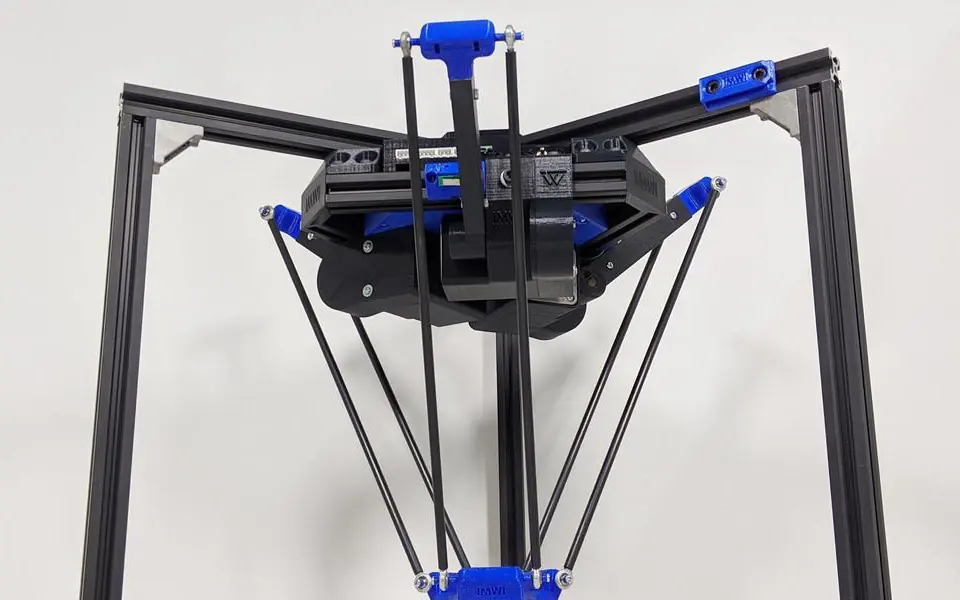
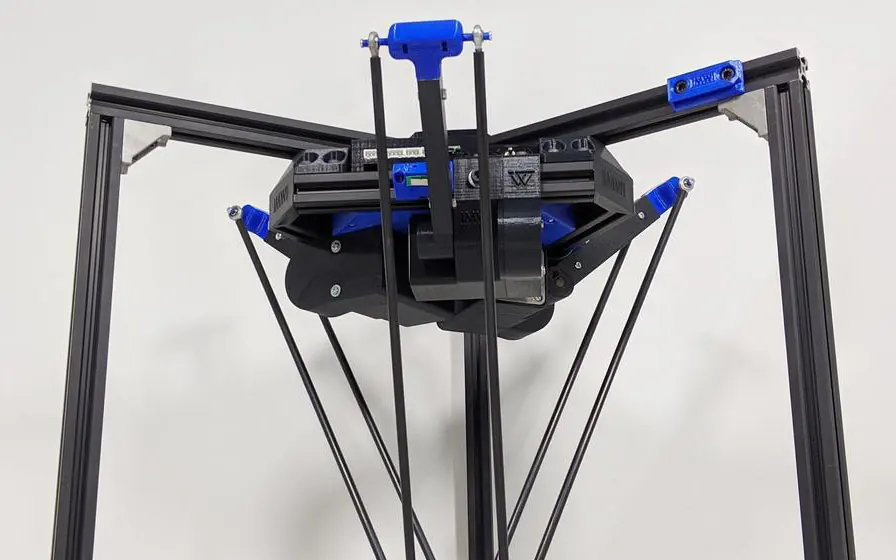
Rewrite the carbon fiber pultrusion hub as a routing page with photographs (#190)
The hub now opens with a carbon-roving hero and a "which form your load case
needs" section: three form cards with photographs and a seven-row load case
to form decision table that also routes torque and pressure cases to custom
profiles and insulation or cost cases to fiberglass. A "what the family gives
and what it takes" section carries the shared specific-stiffness figure, the
broken-pole photo and the class-value table. The plates, tubes and rods
anchors stay, each with a photograph; the process section adds carbonization,
tows and the FengDu KraussMaffei hall; fiber direction gets the shared figure;
six application photo cards route to the form or specialist page.

CollectionSchema gains an optional dateModified so the hub's header date and
JSON-LD agree. The delta-robot rod photo is re-cropped above its watermark.
No new photographs; the shared carbon library is reused. Gate test extended.

Changed region(s): [[0.0312, 0.0304, 0.9688, 1.0]]

diff --git a/app/products/pultrusion-carbon-fiber/page.tsx b/app/products/pultrusion-carbon-fiber/page.tsx
@@ -7,15 +7,17 @@ import PageSection from "@/components/layout/PageSection";
 import ProductRfq from "@/components/products/ProductRfq";
 import CollectionSchema from "@/components/seo/CollectionSchema";
 import Button from "@/components/ui/Button";
-import CoverCard from "@/components/ui/CoverCard";
 import Figure from "@/components/ui/Figure";
 import { FAQList } from "@/components/ui/FAQ";
 import { carbonProfileFormats, carbonProcessSteps, carbonRfqItems, carbonPultrusionFaqs, carbonPultrusionPath } from "@/content/data/carbonFiberPultrusion";
+import { carbonFigures, carbonProperties, carbonScenePhotos as scenes } from "@/content/data/carbonFiberScenes";
+import type { ScenePhoto } from "@/content/data/frpRebar";
 import { buildPageMetadata } from "@/lib/seo";
 import { buildRfqHref } from "@/lib/rfq";
 
 const title = "Pultrusion Carbon Fiber: Plates, Tubes & Rods";
 const description = "Explore carbon fiber pultrusion for plates, strips, tubes and rods. Compare profiles, applications and custom specifications with F1 Composite.";
+const updated = "2026-10-31";
 
 export const metadata: Metadata = buildPageMetadata({
   title, description, path: carbonPultrusionPath,
@@ -28,75 +30,148 @@ const quoteHref = buildRfqHref({
 });
 const linkStyle = "font-semibold text-teal-text underline underline-offset-4 hover:text-teal";
 
+/** The photograph and the one-line case for each profile form, keyed by the shared format id. */
+const formPhotos: Record<(typeof carbonProfileFormats)[number]["id"], { photo: ScenePhoto; when: string; typical: string }> = {
+  plates: { photo: scenes.plateEdge, when: "Reinforcement bonded to something stiffer than itself: spar caps, strengthening strips, bonded stiffeners. The flat face is for the adhesive.", typical: "10–200 mm wide, 1–12 mm thick, cut lengths or coils" },
+  tubes: { photo: scenes.hexacopter, when: "A member loaded in bending or axially on its own, where there is room for a larger diameter and a bore is useful: arms, booms, masts, struts.", typical: "Ø6–Ø150 mm, walls 1–5 mm, to 12 m" },
+  rods: { photo: scenes.deltaLinkages, when: "A compact axial member, a pin, a spar or a core: linkages, push rods, model spars, cores for flexible poles. The only carbon form below about Ø6 mm.", typical: "Ø1–Ø40 mm, any cut length" },
+};
+
+// The decision in one table: what the load case asks for, and which form answers it.
+const decision = [
+  { load: "Bend something that already exists: a beam, a slab, a panel", form: "Plate or strip, bonded flat", href: "/products/pultruded-carbon-fiber-plates", why: "The member supplies the depth; the strip supplies tension at the face." },
+  { load: "A straight member in bending on its own, lightest possible", form: "Tube", href: "/products/pultruded-carbon-fiber-tubes", why: "Material at the outside of the section; a Ø14 × Ø10 tube is 2.8 × stiffer than a Ø10 rod of the same mass." },
+  { load: "A member in pure tension or compression between two joints", form: "Rod", href: "/products/fiberglass-structural-shapes/frp-rod/carbon-fiber-rod", why: "All the stiffness in the one direction it is loaded; bonded fittings at each end." },
+  { load: "Small diameter, a pin, a spar, a clamp that must not crush a wall", form: "Rod", href: "/products/fiberglass-structural-shapes/frp-rod/carbon-fiber-rod", why: "Solid sections survive set screws and sockets; tubes under Ø6 mm are not practical." },
+  { load: "A spring or a flexible pole that must return without taking a set", form: "Strip, or a rod core", href: "/products/pultruded-carbon-fiber-plates", why: "A flat laminate bends far and stays elastic; a rod stiffens a hybrid pole." },
+  { load: "Torque, internal pressure, a hard clamp or side impact", form: "Not a plain pultrusion", href: "/products/custom-pultruded-profiles", why: "Add off-axis plies, a sleeve or a wrapped laminate; pultrusion alone puts every fiber along the axis." },
+  { load: "Electrical insulation, or the lowest cost", form: "Fiberglass instead", href: "/pultruded-frp-profiles", why: "Carbon conducts and costs several times glass; glass is the answer when stiffness per kilogram is not the point." },
+];
+
+// Three things carbon gives and three it takes, stated once for the family.
+const tradeoffs = {
+  gives: [
+    { title: "Stiffness per kilogram", text: "About 3.4 × aluminium or steel along the fibers, 7 × an E23 fiberglass profile. The reason every carbon part exists." },
+    { title: "Dimensional stability", text: "Near-zero thermal expansion along the fibers and no creep in the carbon: optics, metrology, long booms, bonded reinforcement." },
+    { title: "No fatigue allowance, no corrosion", text: "A carbon member under cyclic load keeps its stiffness without the oversizing aluminium needs, and nothing rusts, pits or stains." },
+  ],
+  takes: [
+    { title: "Everything points one way", text: "Pultrusion puts the fibers along the profile. Transverse, shear and interlaminar strengths are resin-dominated: holes, clamps, torque and side impact load the weak direction." },
+    { title: "No yield, no warning", text: "Linear to rupture at 1.2–1.8% strain. Design to a strain limit, protect from impact, and never accept a dent where metal would." },
+    { title: "Conductive and noble", text: "Carbon conducts and is cathodic to aluminium and steel. Wet joints need a glass ply, a sleeve or a sealed adhesive line; it is never an insulator." },
+  ],
+};
+
+const applications = [
+  { title: "Wind-blade spar caps", photo: scenes.bladeFactory, text: "Stacks of pultruded carbon planks bonded in the mould carry the bending load of blades beyond 60 m.", href: "/products/wind-turbine-blade-panels" },
+  { title: "Strengthening concrete and masonry", photo: scenes.strengthening, text: "Strips bonded to the tension face add capacity to slabs, beams and walls without depth or weight.", href: "/products/pultruded-cfrp-strengthening-strips" },
+  { title: "Drones, arms and booms", photo: scenes.fpvQuad, text: "Tubes and plates where every gram of moving mass costs flight time, cycle time or reach.", href: "/products/pultruded-carbon-fiber-tubes" },
+  { title: "Parallel robots and linkages", photo: scenes.deltaConveyor, text: "Slender rods and tubes accelerated at several g, thousands of times an hour.", href: "/products/carbon-fiber-robotic-beams" },
+  { title: "Optics, metrology and instruments", photo: scenes.telescope, text: "Tubes and frames that hold alignment through a temperature swing and damp vibration fast.", href: "/products/pultruded-carbon-fiber-tubes" },
+  { title: "Lightweight frames and chassis", photo: scenes.heliFrame, text: "Straight carbon members bonded into nodes: vehicles, equipment enclosures, rigs.", href: "/products/carbon-fiber-roller-tubes" },
+];
+
+/** A schematic plate at the 8:5 ratio the drawn figures are made in. */
+function Plate({ src, alt }: { src: string; alt: string }) {
+  return <div className="relative aspect-[8/5] bg-white"><Image src={src} alt={alt} fill sizes="(max-width: 1024px) 94vw, 50vw" className="object-contain" /></div>;
+}
+
+/** An openly licensed photograph that fills its plate; the credit is listed at the end of the page. */
+function Photo({ photo, sizes = "(max-width: 1024px) 94vw, 33vw", preload = false }: { photo: ScenePhoto; sizes?: string; preload?: boolean }) {
+  return <div className="relative aspect-[8/5] bg-bg2"><Image src={photo.src} alt={photo.alt} fill sizes={sizes} preload={preload} className="object-cover" /></div>;
+}
+
+const creditedPhotos: ScenePhoto[] = [scenes.roving, ...carbonProfileFormats.map(format => formPhotos[format.id].photo), scenes.brokenPole, scenes.carbonization, scenes.tows, ...applications.map(item => item.photo)].filter((photo, i, all) => all.findIndex(other => other.src === photo.src) === i);
+
 export default function CarbonFiberPultrusionPage() {
   return (
     <>
-      <CollectionSchema name={title} description={description} path={carbonPultrusionPath} links={carbonProfileFormats.map((format) => ({ label: format.name, href: format.href }))} />
+      <CollectionSchema {...{ name: title, description, path: carbonPultrusionPath, dateModified: updated, links: carbonProfileFormats.map((format) => ({ label: format.name, href: format.href })) }} />
       <PageHeader
         tag="Carbon fiber pultrusion"
-        title="Pultrusion carbon fiber: plates, tubes & rods"
-        description="Continuous carbon fibers. A constant cross-section. A profile built around your load path. Explore pultruded CFRP plates, strips, tubes and solid rods for lightweight, stiffness-driven components."
+        title="Pultrusion carbon fiber: plates, tubes and rods, and which one your load case needs"
+        description="Carbon fiber pultrusion pulls continuous carbon tow through a heated die into a constant section with every fiber along its length: the stiffest material per kilogram that can be made by the metre. F1 Composite pultrudes it as flat plates and strips, hollow tubes and solid rods. This page says what the family does, what it will not do, and which of the three forms answers your load case; each form has its own page with sizes, figures and applications."
+        updated={updated}
         breadcrumbs={[{ label: "Home", href: "/" }, { label: "Products", href: "/products/product-lines" }, { label: "Carbon fiber pultrusion" }]}
-        facts={[{ label: "Material", value: "Carbon fiber / CFRP" }, { label: "Formats", value: "Plates · tubes · rods" }, { label: "Geometry", value: "Constant section" }, { label: "Supply", value: "Drawing-led review" }]}
-        actions={{ primary: { label: "Request a carbon profile quote", href: quoteHref }, secondary: { label: "Explore the profiles", href: "#profiles", variant: "secondary" }, stickyMobile: true }}
-        figure={<Figure number={1} title="One process, different profiles" note="Profile illustration" bleed caption="Flat laminates, hollow tubes and solid rods. Illustrations show profile forms, not stock sizes."><Image src="/images/products/pultrusion-carbon-fiber/profile-family.svg" alt="Illustrated family of pultruded carbon fiber plates, hollow tubes and solid rods" width={1200} height={900} preload sizes="(max-width: 1023px) 94vw, 44vw" className="h-auto w-full" /></Figure>}
+        facts={[{ label: "Stiffness per kg", value: "≈ 3.4 × aluminium or steel" }, { label: "Forms", value: "Plates · tubes · rods" }, { label: "Fibers", value: "All along the profile" }, { label: "Supply", value: "To drawing, any cut length" }]}
+        actions={{ primary: { label: "Request a carbon profile quote", href: quoteHref }, secondary: { label: "Which form do I need?", href: "#profiles", variant: "secondary" }, stickyMobile: true }}
+        figure={<Figure number={1} title="Where every carbon profile starts" note="Photo · see credits" bleed caption={scenes.roving.shows}><Photo photo={scenes.roving} sizes="(max-width: 1023px) 94vw, 44vw" preload /></Figure>}
       />
-      <PageNav items={[{ id: "profiles", label: "Profiles" }, { id: "process", label: "Process" }, { id: "selection", label: "Material selection" }, { id: "applications", label: "Applications" }, { id: "faq", label: "FAQ" }, { id: "quote", label: "Quote" }]} />
+      <PageNav items={[{ id: "profiles", label: "Which form" }, { id: "performance", label: "Why carbon" }, { id: "plates", label: "Plates" }, { id: "tubes", label: "Tubes" }, { id: "rods", label: "Rods" }, { id: "process", label: "Process" }, { id: "selection", label: "Fiber direction" }, { id: "applications", label: "Applications" }, { id: "faq", label: "FAQ" }, { id: "quote", label: "Quote" }]} />
 
-      <PageSection id="profiles" title="Choose your pultruded carbon fiber profile" intro="Carbon fiber pultrusion combines continuous reinforcement with a resin matrix in a heated die. The process suits long, straight profiles with a consistent cross-section; the main reinforcement typically runs along their length.">
+      <PageSection id="profiles" title="Three forms, one laminate: which one your load case needs" intro="All three are the same unidirectional carbon laminate; the section decides what it is good for. Start from the load, not the shape.">
         <div className="grid gap-[20px] md:grid-cols-3">
-          {carbonProfileFormats.map((format) => <CoverCard key={format.id} href={format.href} cover={{ src: format.image, alt: format.alt, note: "Profile illustration", fit: "contain" }} title={format.name} text={format.summary} facts={[format.geometry]} action={`Explore ${format.shortName.toLowerCase()}`} />)}
+          {carbonProfileFormats.map((format) => { const { photo, when, typical } = formPhotos[format.id]; return <article key={format.id} className="flex flex-col overflow-hidden rounded-card border border-border-default bg-white"><Photo photo={photo} /><div className="flex flex-1 flex-col p-[20px]"><p className="text-f12 leading-relaxed text-t3">{photo.shows}</p><h3 className="mt-[12px] text-f20 font-bold text-t1">{format.shortName}</h3><p className="mt-[8px] text-f14 leading-relaxed text-t2">{when}</p><p className="mt-[12px] text-f12 leading-relaxed text-t3"><strong className="text-t1">Typical:</strong> {typical}</p><Link href={format.href} className={`mt-auto inline-flex min-h-10 items-center pt-[12px] text-f14 ${linkStyle}`}>{format.name} →</Link></div></article>; })}
         </div>
+        <div className="mt-[24px] overflow-hidden rounded-card border border-border-default bg-white"><div className="relative overflow-x-auto"><table className="w-full min-w-[760px] border-collapse text-left text-f14"><caption className="border-b border-border-default px-[20px] py-[16px] text-left font-semibold text-t1">From the load case to the form</caption><thead className="bg-bg2"><tr><th scope="col" className="px-[16px] py-[12px]">Your load case</th><th scope="col" className="px-[16px] py-[12px]">The form</th><th scope="col" className="px-[16px] py-[12px]">Why</th></tr></thead><tbody>{decision.map(row => <tr key={row.load} className="border-t border-border-default align-top"><th scope="row" className="px-[16px] py-[12px] font-semibold text-t1">{row.load}</th><td className="px-[16px] py-[12px] leading-relaxed"><Link href={row.href} className={linkStyle}>{row.form}</Link></td><td className="px-[16px] py-[12px] leading-relaxed text-t2">{row.why}</td></tr>)}</tbody></table></div></div>
         <p className="mt-[20px] text-f16 leading-relaxed text-t2">Need a different section? <Link href="/products/custom-pultruded-profiles" className={linkStyle}>Discuss a custom carbon fiber profile</Link> with the drawing, material requirements and annual volume.</p>
       </PageSection>
 
-      {carbonProfileFormats.map((format, index) => (
-        <PageSection key={format.id} id={format.id} title={format.name} tone={index % 2 === 0 ? "muted" : "white"}>
+      <PageSection id="performance" title="What the family gives, and what it takes" tone="muted" intro="Carbon is bought for one number, stiffness per kilogram along the fibers, and everything else follows from where the fibers point. The figure and the table below are shared by the three product pages; the class values are published ranges, and the qualification report of the offered laminate is the design basis.">
+        <div className="grid items-start gap-[24px] lg:grid-cols-[1.2fr_1fr]">
+          <Figure number={2} title="Stiffness per unit mass, along the fibers" caption="Unidirectional pultruded carbon against aluminium, steel and E23 fiberglass. Same mass per metre, about 3.4 times the stiffness of the metals." bleed><Plate src={carbonFigures.specificStiffness.src} alt={carbonFigures.specificStiffness.alt} /></Figure>
+          <Figure number={3} title="No yield, no warning" note="Photo · see credits" caption={scenes.brokenPole.shows} bleed><Photo photo={scenes.brokenPole} sizes="(max-width: 1024px) 94vw, 40vw" /></Figure>
+        </div>
+        <div className="mt-[24px] grid gap-[20px] lg:grid-cols-2">
+          <div className="rounded-card border border-border-default bg-white p-[20px]"><p className="font-mono text-f12 uppercase tracking-[0.06em] text-teal-text">What carbon gives</p><div className="mt-[8px] grid gap-[12px]">{tradeoffs.gives.map(item => <div key={item.title} className="border-t border-border-default pt-[10px]"><h3 className="text-f16 font-bold text-t1">{item.title}</h3><p className="mt-[4px] text-f14 leading-relaxed text-t2">{item.text}</p></div>)}</div></div>
+          <div className="rounded-card border border-border-default bg-white p-[20px]"><p className="font-mono text-f12 uppercase tracking-[0.06em] text-t3">What it takes</p><div className="mt-[8px] grid gap-[12px]">{tradeoffs.takes.map(item => <div key={item.title} className="border-t border-border-default pt-[10px]"><h3 className="text-f16 font-bold text-t1">{item.title}</h3><p className="mt-[4px] text-f14 leading-relaxed text-t2">{item.text}</p></div>)}</div></div>
+        </div>
+        <div className="mt-[24px] overflow-hidden rounded-card border border-border-default bg-white"><div className="relative overflow-x-auto"><table className="w-full min-w-[900px] border-collapse text-left text-f14"><caption className="border-b border-border-default px-[20px] py-[16px] text-left font-semibold text-t1">Unidirectional pultruded carbon against the materials it replaces, property by property</caption><thead className="bg-bg2"><tr><th scope="col" className="px-[16px] py-[12px]">Property</th><th scope="col" className="px-[16px] py-[12px] text-teal-text">Pultruded CFRP</th><th scope="col" className="px-[16px] py-[12px]">Pultruded GFRP (E23)</th><th scope="col" className="px-[16px] py-[12px]">Aluminium 6061-T6</th><th scope="col" className="px-[16px] py-[12px]">Structural steel</th><th scope="col" className="px-[16px] py-[12px]">What it means</th></tr></thead><tbody>{carbonProperties.map(row => <tr key={row.property} className="border-t border-border-default align-top"><th scope="row" className="px-[16px] py-[12px] font-semibold text-t1">{row.property}</th><td className="px-[16px] py-[12px] leading-relaxed text-t1">{row.cfrp}</td><td className="px-[16px] py-[12px] leading-relaxed text-t2">{row.gfrp}</td><td className="px-[16px] py-[12px] leading-relaxed text-t2">{row.aluminium}</td><td className="px-[16px] py-[12px] leading-relaxed text-t2">{row.steel}</td><td className="px-[16px] py-[12px] leading-relaxed text-t3">{row.note}</td></tr>)}</tbody></table></div><p className="border-t border-border-default p-[20px] text-f12 leading-relaxed text-t3">CFRP values are published class ranges for standard-modulus carbon at about 60% fiber volume (ACI 440.1R Table 3.1 and supplier datasheets); fiberglass is the EN 13706 E23 minimum F1 publishes for its glass profiles; metals are handbook values. None is a guarantee for a particular profile: the qualification report of the offered laminate, in the test direction that matters, is the number to design with.</p></div>
+      </PageSection>
+
+      {carbonProfileFormats.map((format, index) => { const { photo, typical } = formPhotos[format.id]; return (
+        <PageSection key={format.id} id={format.id} title={format.name} tone={index % 2 === 0 ? "white" : "muted"}>
           <div className="grid items-start gap-[28px] lg:grid-cols-2 lg:gap-[48px]">
-            <Figure number={index + 2} title={format.shortName} note="Profile illustration" bleed caption={format.geometry}><Image src={format.image} alt={format.alt} width={900} height={600} sizes="(max-width: 1023px) 94vw, 44vw" className="h-auto w-full" /></Figure>
+            <Figure number={index + 4} title={format.shortName} note="Photo · see credits" bleed caption={photo.shows}><Photo photo={photo} sizes="(max-width: 1023px) 94vw, 44vw" /></Figure>
             <div className="space-y-[18px] text-f16 leading-relaxed text-t2">
               <p>{format.detail}</p>
+              <p className="text-f14 text-t3"><strong className="text-t1">Geometry:</strong> {format.geometry} · <strong className="text-t1">Typical:</strong> {typical}</p>
               <div className="rounded-card border border-border-default bg-white p-[20px]"><h3 className="text-f18 font-bold text-t1">What to specify</h3><p className="mt-[8px]">{format.checks}</p></div>
               <ul className="space-y-[10px]">{format.links.map((link) => <li key={link.href}><Link href={link.href} className={linkStyle}>{link.label} <span aria-hidden>→</span></Link></li>)}</ul>
-              <Button href={buildRfqHref({ source: `carbon-pultrusion-${format.id}`, product: format.name, productPath: `${carbonPultrusionPath}#${format.id}`, message: `Please review ${format.name.toLowerCase()} for my project.\n${format.geometry} (with units and tolerances):\nQuantity:\nApplication, loads and connections:\nMaterial and inspection requirements:\nDestination and delivery date:` })}>Request {format.shortName.toLowerCase()}</Button>
+              <Button href={buildRfqHref({ source: `carbon-pultrusion-${format.id}`, product: format.name, productPath: `${carbonPultrusionPath}#${format.id}`, message: `Please review ${format.name.toLowerCase()} for my project.\n${format.geometry} (with units and tolerances):\nQuantity:\nApplication, loads and connections:\nMaterial, service conditions and test requirements:\nDestination and delivery date:` })}>Quote {format.shortName.toLowerCase()}</Button>
             </div>
           </div>
         </PageSection>
-      ))}
+      ); })}
 
-      <PageSection id="process" title="How carbon fiber pultrusion works" intro="The profile is pulled through the line continuously. Fiber alignment, resin wet-out and cure control work together to establish the finished laminate.">
-        <Figure number={5} title="From carbon tow to finished profile" note="Process schematic" bleed><Image src="/images/products/pultrusion-carbon-fiber/process.svg" alt="Carbon fiber pultrusion sequence: tow alignment, resin impregnation, heated die, puller and cut to length" width={1400} height={500} sizes="94vw" className="h-auto w-full" /></Figure>
-        <ol className="mt-[24px] grid gap-[16px] sm:grid-cols-2 lg:grid-cols-5">{carbonProcessSteps.map((step, i) => <li key={step.title} className="border-t-2 border-teal pt-[16px]"><span className="font-mono text-f12 text-teal-text">0{i + 1}</span><h3 className="mt-[6px] text-f18 font-bold text-t1">{step.title}</h3><p className="mt-[8px] text-f14 leading-relaxed text-t2">{step.text}</p></li>)}</ol>
+      <PageSection id="process" title="How carbon fiber pultrusion works" tone="muted" intro="The fiber is made long before the profile. Precursor is oxidised and carbonised into tow; the tow is wound on bobbins; a pultrusion line pulls hundreds of those tows through a resin bath and a heated die, continuously, and cuts the cured profile to length.">
+        <div className="grid gap-[20px] md:grid-cols-3">
+          <Figure number={7} title="Making the fiber" note="Photo · see credits" caption={scenes.carbonization.shows} bleed><Photo photo={scenes.carbonization} /></Figure>
+          <Figure number={8} title="Feeding the line" note="Photo · see credits" caption={scenes.tows.shows} bleed><Photo photo={scenes.tows} /></Figure>
+          <Figure number={9} title="The pultrusion hall" note="Production photo" caption="KraussMaffei pultrusion lines, pullers and take-off tables in a FengDu hall. Glass profiles run on these lines; a carbon profile is pulled the same way, with a die and a resin system matched to the tow." bleed><div className="relative aspect-[8/5] bg-bg2"><Image src="/images/f1-photos/f1-composite-pultrusion-hall-krauss-maffei-rows.webp" alt="Rows of KraussMaffei pultrusion lines with pullers and profile take-off tables in a FengDu production hall" fill sizes="(max-width: 1024px) 94vw, 33vw" className="object-cover" /></div></Figure>
+        </div>
+        <Figure number={10} title="From carbon tow to finished profile" note="Process schematic" bleed className="mt-[24px]"><Image src="/images/products/pultrusion-carbon-fiber/process.svg" alt="Carbon fiber pultrusion sequence: tow alignment, resin impregnation, heated die, puller and cut to length" width={1400} height={500} sizes="94vw" className="h-auto w-full" /></Figure>
+        <ol className="mt-[24px] grid gap-[16px] sm:grid-cols-2 lg:grid-cols-5">{carbonProcessSteps.map((step, i) => <li key={step.title} className="border-t-2 border-teal pt-[16px]"><span className="font-mono text-f12 text-teal-text">0{i + 1}</span><h3 className="mt-[6px] text-f18 font-bold text-t1">{step.title}</h3><p className="mt-[6px] text-f14 leading-relaxed text-t2">{step.text}</p></li>)}</ol>
         <p className="mt-[24px] text-f16"><Link href="/technology/pultrusion-process" className={linkStyle}>Explore the pultrusion process</Link>{" · "}<Link href="/technology/pultrusion-vs-extrusion-filament-winding" className={linkStyle}>Compare manufacturing methods</Link></p>
       </PageSection>
 
-      <PageSection id="selection" title="Choose the fiber architecture for the job" tone="muted" intro="Longitudinal stiffness is only part of the specification. Review the direction of every load and how it enters the component.">
-        <div className="grid gap-[20px] md:grid-cols-3">
-          {[
-            { title: "Axial and bending loads", text: "Mainly longitudinal carbon fibers can support stiffness-driven designs with low moving mass. Finished-part properties still depend on the fiber grade, resin, fiber content and section geometry." },
-            { title: "Torque and transverse loads", text: "A mainly unidirectional profile needs separate checks for shear, hoop loading and local bearing. Off-axis reinforcement, pull-winding or a wrapped laminate may better suit these loads." },
-            { title: "Connections and exposure", text: "Specify bonded joints, inserts and clamps early. Carbon is electrically conductive; review electrical isolation and metal interfaces in wet service, together with resin, temperature and UV requirements." },
-          ].map((item) => <article key={item.title} className="rounded-card border border-border-default bg-white p-[24px]"><h3 className="text-f20 font-bold text-t1">{item.title}</h3><p className="mt-[12px] text-f16 leading-relaxed text-t2">{item.text}</p></article>)}
-        </div>
-        <p className="mt-[24px] text-f16 leading-relaxed text-t2">Comparing carbon with glass fiber? Review <Link href="/pultruded-frp-profiles" className={linkStyle}>pultruded fiberglass profiles</Link> when cost or electrical insulation drives the design. Compare actual laminate data and the complete assembly against the same service requirements.</p>
-      </PageSection>
-
-      <PageSection id="applications" title="From flat reinforcement to moving components" intro="Follow the application to its section, interfaces and qualification requirements.">
-        <div className="grid items-start gap-[28px] lg:grid-cols-2 lg:gap-[48px]">
-          <Figure number={6} title="Carbon fiber wind-blade laminates" note="Representative supplier image" bleed caption="Existing carbon panel imagery from the F1 wind-blade range. Grade and project qualification are specified separately."><Image src="/images/products/wind-turbine-blade-panels/pultruded-carbon-fiber-wind-blade-panel.webp" alt="Straight and coiled pultruded carbon fiber panels for wind turbine blade programs" width={605} height={209} sizes="(max-width: 1023px) 94vw, 44vw" className="h-auto w-full" /></Figure>
+      <PageSection id="selection" title="Fiber direction: what pultrusion is good at, and when to wrap instead" intro="The process fixes the laminate. Pultrusion puts the fibers along the profile, which is right for axial load and bending and wrong for torque, pressure or a hard clamp. Knowing which case you have is most of the specification.">
+        <div className="grid items-start gap-[24px] lg:grid-cols-[1.3fr_1fr]">
+          <Figure number={11} title="Pultruded against roll-wrapped" caption="A 0° laminate carries axial load, bending and buckling at the highest modulus per kilogram; ±45° and 90° plies add torsion and hoop capacity at a higher price. A pultruded profile can be sleeved, wrapped or bonded at the ends so the 0° laminate works in the span and the joint carries the rest." bleed><Plate src={carbonFigures.fiberDirection.src} alt={carbonFigures.fiberDirection.alt} /></Figure>
           <div className="grid gap-[16px]">
             {[
-              { title: "Wind-blade spar caps", text: "Specify the laminate, bonding surface and fatigue qualification as a single material program.", href: "/products/wind-turbine-blade-panels" },
-              { title: "Bonded strengthening strips", text: "Review the strip together with the adhesive, substrate and load transfer at its ends.", href: "/products/pultruded-cfrp-strengthening-strips" },
-              { title: "Robotic beams and struts", text: "Balance moving mass and stiffness with joint loads and the working cycle.", href: "/products/carbon-fiber-robotic-beams" },
-              { title: "Industrial roller tubes", text: "Define runout, end fittings and operating speed; the laminate and manufacturing route follow the duty.", href: "/products/carbon-fiber-roller-tubes" },
-            ].map((item) => <Link key={item.href} href={item.href} className="rounded-card border border-border-default p-[20px] transition-colors hover:border-teal-border"><h3 className="text-f18 font-bold text-teal-text">{item.title} <span aria-hidden>→</span></h3><p className="mt-[6px] text-f14 leading-relaxed text-t2">{item.text}</p></Link>)}
+              { title: "Axial and bending loads", text: "Mainly longitudinal carbon fibers suit stiffness-driven designs with low moving mass. Finished-part properties still depend on the fiber grade, resin, fiber content and section geometry." },
+              { title: "Torque and transverse loads", text: "A unidirectional profile needs separate checks for shear, hoop loading and local bearing. Off-axis reinforcement, pull-winding or a wrapped laminate may better suit these loads." },
+              { title: "Connections and exposure", text: "Specify bonded joints, inserts and clamps early. Carbon is electrically conductive; review electrical isolation and metal interfaces in wet service, together with resin, temperature and UV requirements." },
+            ].map((item) => <article key={item.title} className="rounded-card border border-border-default bg-bg2 p-[20px]"><h3 className="text-f16 font-bold text-t1">{item.title}</h3><p className="mt-[8px] text-f14 leading-relaxed text-t2">{item.text}</p></article>)}
           </div>
         </div>
+        <p className="mt-[24px] text-f16 leading-relaxed text-t2">Comparing carbon with glass fiber? Review <Link href="/pultruded-frp-profiles" className={linkStyle}>pultruded fiberglass profiles</Link> when cost or electrical insulation drives the design. Compare actual laminate data and the complete assembly against the same load case.</p>
       </PageSection>
 
-      <PageSection id="faq" title="Carbon fiber pultrusion: common questions" tone="muted"><FAQList items={carbonPultrusionFaqs} /></PageSection>
-      <PageSection id="quote" title="Start with the section. Build the specification together." tone="deep"><ProductRfq product="Pultruded carbon fiber profiles" productPath={carbonPultrusionPath} quoteHref={quoteHref} items={carbonRfqItems} intro="Send your plate, tube, rod or custom profile drawing. F1 Composite will review the material, tooling, inspection and delivery requirements for a project quotation." links={[{ label: "Custom profile development", href: "/products/custom-pultruded-profiles" }]} /></PageSection>
+      <PageSection id="applications" title="Where pultruded carbon is specified" tone="muted" intro="Six kinds of part, each on one of the three forms. The photographs show the element, not an F1 part; some of the carbon in them was made by other processes, and the pultruded form is the straight-member answer to the same brief.">
+        <div className="grid gap-[20px] md:grid-cols-2 lg:grid-cols-3">{applications.map(item => <Link key={item.title} href={item.href} className="group flex flex-col overflow-hidden rounded-card border border-border-default bg-white transition-colors hover:border-teal-border"><Photo photo={item.photo} /><div className="flex flex-1 flex-col p-[16px]"><h3 className="text-f16 font-bold text-teal-text">{item.title} <span aria-hidden>→</span></h3><p className="mt-[6px] text-f14 leading-relaxed text-t2">{item.text}</p></div></Link>)}</div>
+      </PageSection>
+
+      <PageSection id="faq" title="Carbon fiber pultrusion: common questions">
+        <FAQList items={carbonPultrusionFaqs} />
+        <aside id="photo-credits" className="mt-[32px] rounded-card border border-border-default bg-bg2 p-[20px] text-f12 leading-relaxed text-t3">
+          <h3 className="text-f14 font-bold text-t1">Photo credits</h3>
+          <p className="mt-[4px]">Figures 2, 10 and 11 are F1 Composite&apos;s own drawings; Figure 9 is a FengDu production photograph. The other photographs are openly licensed works from Wikimedia Commons, cropped and re-encoded for this page; none shows an F1 part or project, and some of the carbon parts in them were made by processes other than pultrusion.</p>
+          <ul className="mt-[8px] columns-1 gap-[24px] md:columns-2">{creditedPhotos.map(photo => <li key={photo.src} className="break-inside-avoid"><a href={photo.credit.sourceHref} target="_blank" rel="noreferrer" className="underline underline-offset-2">{photo.credit.title}</a> by {photo.credit.author}, {photo.credit.licenseHref ? <a href={photo.credit.licenseHref} target="_blank" rel="noreferrer" className="underline underline-offset-2">{photo.credit.license}</a> : photo.credit.license}.</li>)}</ul>
+        </aside>
+      </PageSection>
+      <PageSection id="quote" title="Start with the section. Build the specification together." tone="deep"><ProductRfq product="Pultruded carbon fiber profiles" productPath={carbonPultrusionPath} quoteHref={quoteHref} items={carbonRfqItems} intro="Send your plate, tube, rod or custom profile drawing. F1 Composite will review the material, tooling, inspection and delivery requirements for a project quotation." /></PageSection>
     </>
   );
 }

diff --git a/components/seo/CollectionSchema.tsx b/components/seo/CollectionSchema.tsx
@@ -6,11 +6,14 @@ export default function CollectionSchema({
   description,
   path,
   links,
+  dateModified,
 }: {
   name: string;
   description: string;
   path: string;
   links: readonly { label: string; href: string }[];
+  /** YYYY-MM-DD of the last content review; keep equal to the PageHeader's `updated`. */
+  dateModified?: string;
 }) {
   return (
     <JsonLd
@@ -21,6 +24,7 @@ export default function CollectionSchema({
         url: absoluteUrl(path),
         name,
         description,
+        ...(dateModified ? { dateModified } : {}),
         isPartOf: { "@id": `${absoluteUrl("/")}#website` },
         publisher: { "@id": `${absoluteUrl("/")}#organization` },
         mainEntity: {

diff --git a/docs/seo/carbon-fiber-rod.md b/docs/seo/carbon-fiber-rod.md
@@ -59,3 +59,19 @@ Owner request: the same picture-led rewrite for `/products/pultruded-carbon-fibe
 | 5 more Commons photographs (CC BY, CC BY-SA), 2 drawn figures; credits block; sources in `docs/research/carbon-fiber-pages-photo-sources.md` §Plate page additions; gate test extended to the plate page | `public/images/products/carbon-fiber/`, `scripts/carbon-fiber-pages.test.mjs` |
 
 Class values labelled as such; strengthening design named as the engineer of record's and the system supplier's. Title and description unchanged.
+
+## Hub page rewrite (2026-10-31)
+
+Owner request: the same picture-led rewrite for `/products/pultrusion-carbon-fiber`. The hub's job is to route the reader to the right form, so it does not repeat the three product pages.
+
+| Change | Where |
+|---|---|
+| Hero photo (carbon roving on a creel) replaces the SVG family illustration; H1 and facts lead with stiffness per kilogram and "which form your load case needs" | `app/products/pultrusion-carbon-fiber/page.tsx` |
+| New first section `#profiles`: three form cards with photographs (plate edge, hexacopter tube arms, delta-robot rod linkages), when each is the answer and typical sizes, then a seven-row **load case → form** decision table that also routes torque/pressure cases to custom profiles and insulation/cost cases to fiberglass | page |
+| New `#performance`: shared specific-stiffness figure, broken-pole photo, "what carbon gives / what it takes" (3 + 3), the shared 11-row class-value table | page |
+| `#plates`, `#tubes`, `#rods` anchors kept; each now carries a photograph, the typical range and the same specify/links/RFQ block | page |
+| `#process`: carbonization and tows photographs plus the FengDu KraussMaffei hall production photo (honestly captioned: glass runs on these lines) before the existing process schematic and five steps | page |
+| `#selection`: shared fiber-direction figure beside the three existing cards; `#applications`: six photo cards routed to the form or specialist page | page |
+| Credits block; gate test extended to the hub (property table, credits, links to all three forms, anchors) | `scripts/carbon-fiber-pages.test.mjs` |
+
+No new photographs: the hub reuses the shared library in `content/data/carbonFiberScenes.ts` and the owned hall photo. Title, description and the product-directory cover unchanged.

diff --git a/docs/research/carbon-fiber-pages-photo-sources.md b/docs/research/carbon-fiber-pages-photo-sources.md
@@ -22,7 +22,7 @@ Rules applied:
 | `carbon-tube-telescope-on-tripod.webp` | [File:8 inch Ritchey–Chrétien.jpg](https://commons.wikimedia.org/wiki/File:8_inch_Ritchey%E2%80%93Chr%C3%A9tien.jpg), 2025-01-26 | Brainandforce | [CC BY 4.0](https://creativecommons.org/licenses/by/4.0/) | 3072 × 4096, cropped to 1920 × 1200 |
 | `cfrp-boom-structure-hangar.webp` | [File:Boom structure.jpg](https://commons.wikimedia.org/wiki/File:Boom_structure.jpg), 2020-08-27 | DLR | [CC BY 3.0 DE](https://creativecommons.org/licenses/by/3.0/de/deed.en) | 1024 × 768 |
 | `delta-robot-carbon-arms-conveyor.webp` | [File:Delta x robot - vision module - conveyor.jpg](https://commons.wikimedia.org/wiki/File:Delta_x_robot_-_vision_module_-_conveyor.jpg), 2020-02-13 | Trungdoanhong | [CC BY-SA 4.0](https://creativecommons.org/licenses/by-sa/4.0/) | 1000 × 666 |
-| `delta-robot-carbon-rod-linkages.webp` | [File:Delta x robot.jpg](https://commons.wikimedia.org/wiki/File:Delta_x_robot.jpg), 2020-02-13 | Trungdoanhong | [CC BY-SA 4.0](https://creativecommons.org/licenses/by-sa/4.0/) | 1000 × 702, cropped to 960 × 600 above the watermark |
+| `delta-robot-carbon-rod-linkages.webp` | [File:Delta x robot.jpg](https://commons.wikimedia.org/wiki/File:Delta_x_robot.jpg), 2020-02-13 | Trungdoanhong | [CC BY-SA 4.0](https://creativecommons.org/licenses/by-sa/4.0/) | 1000 × 702, cropped to 896 × 560 above the watermark |
 | `wind-wand-carbon-pole.webp` | [File:Len Lye Wind Wand.jpg](https://commons.wikimedia.org/wiki/File:Len_Lye_Wind_Wand.jpg), 2006-02-04, Flickr | Robin van Mourik | [CC BY-SA 2.0](https://creativecommons.org/licenses/by-sa/2.0/) | 1536 × 2048, cropped to 1536 × 960 |
 | `helicopter-cfrp-cabin-frame.webp` | [File:Kabinengerüst CFK Hubschrauber Airbus EC 135.jpg](https://commons.wikimedia.org/wiki/File:Kabinenger%C3%BCst_CFK_Hubschrauber_Airbus_EC_135.jpg), 2015-10-08 | Tohma | [CC BY-SA 4.0](https://creativecommons.org/licenses/by-sa/4.0/) | 6000 × 3376 |
 | `nasa-prandtl-carbon-fiber-glider.webp` | [File:PRANDTL D 3c on bungee during launch with center cover and FOSS.jpg](https://commons.wikimedia.org/wiki/File:PRANDTL_D_3c_on_bungee_during_launch_with_center_cover_and_FOSS.jpg), 2017-08-16 | NASA / Lauren Hughes | Public domain (US federal work) | 3024 × 2016 |
